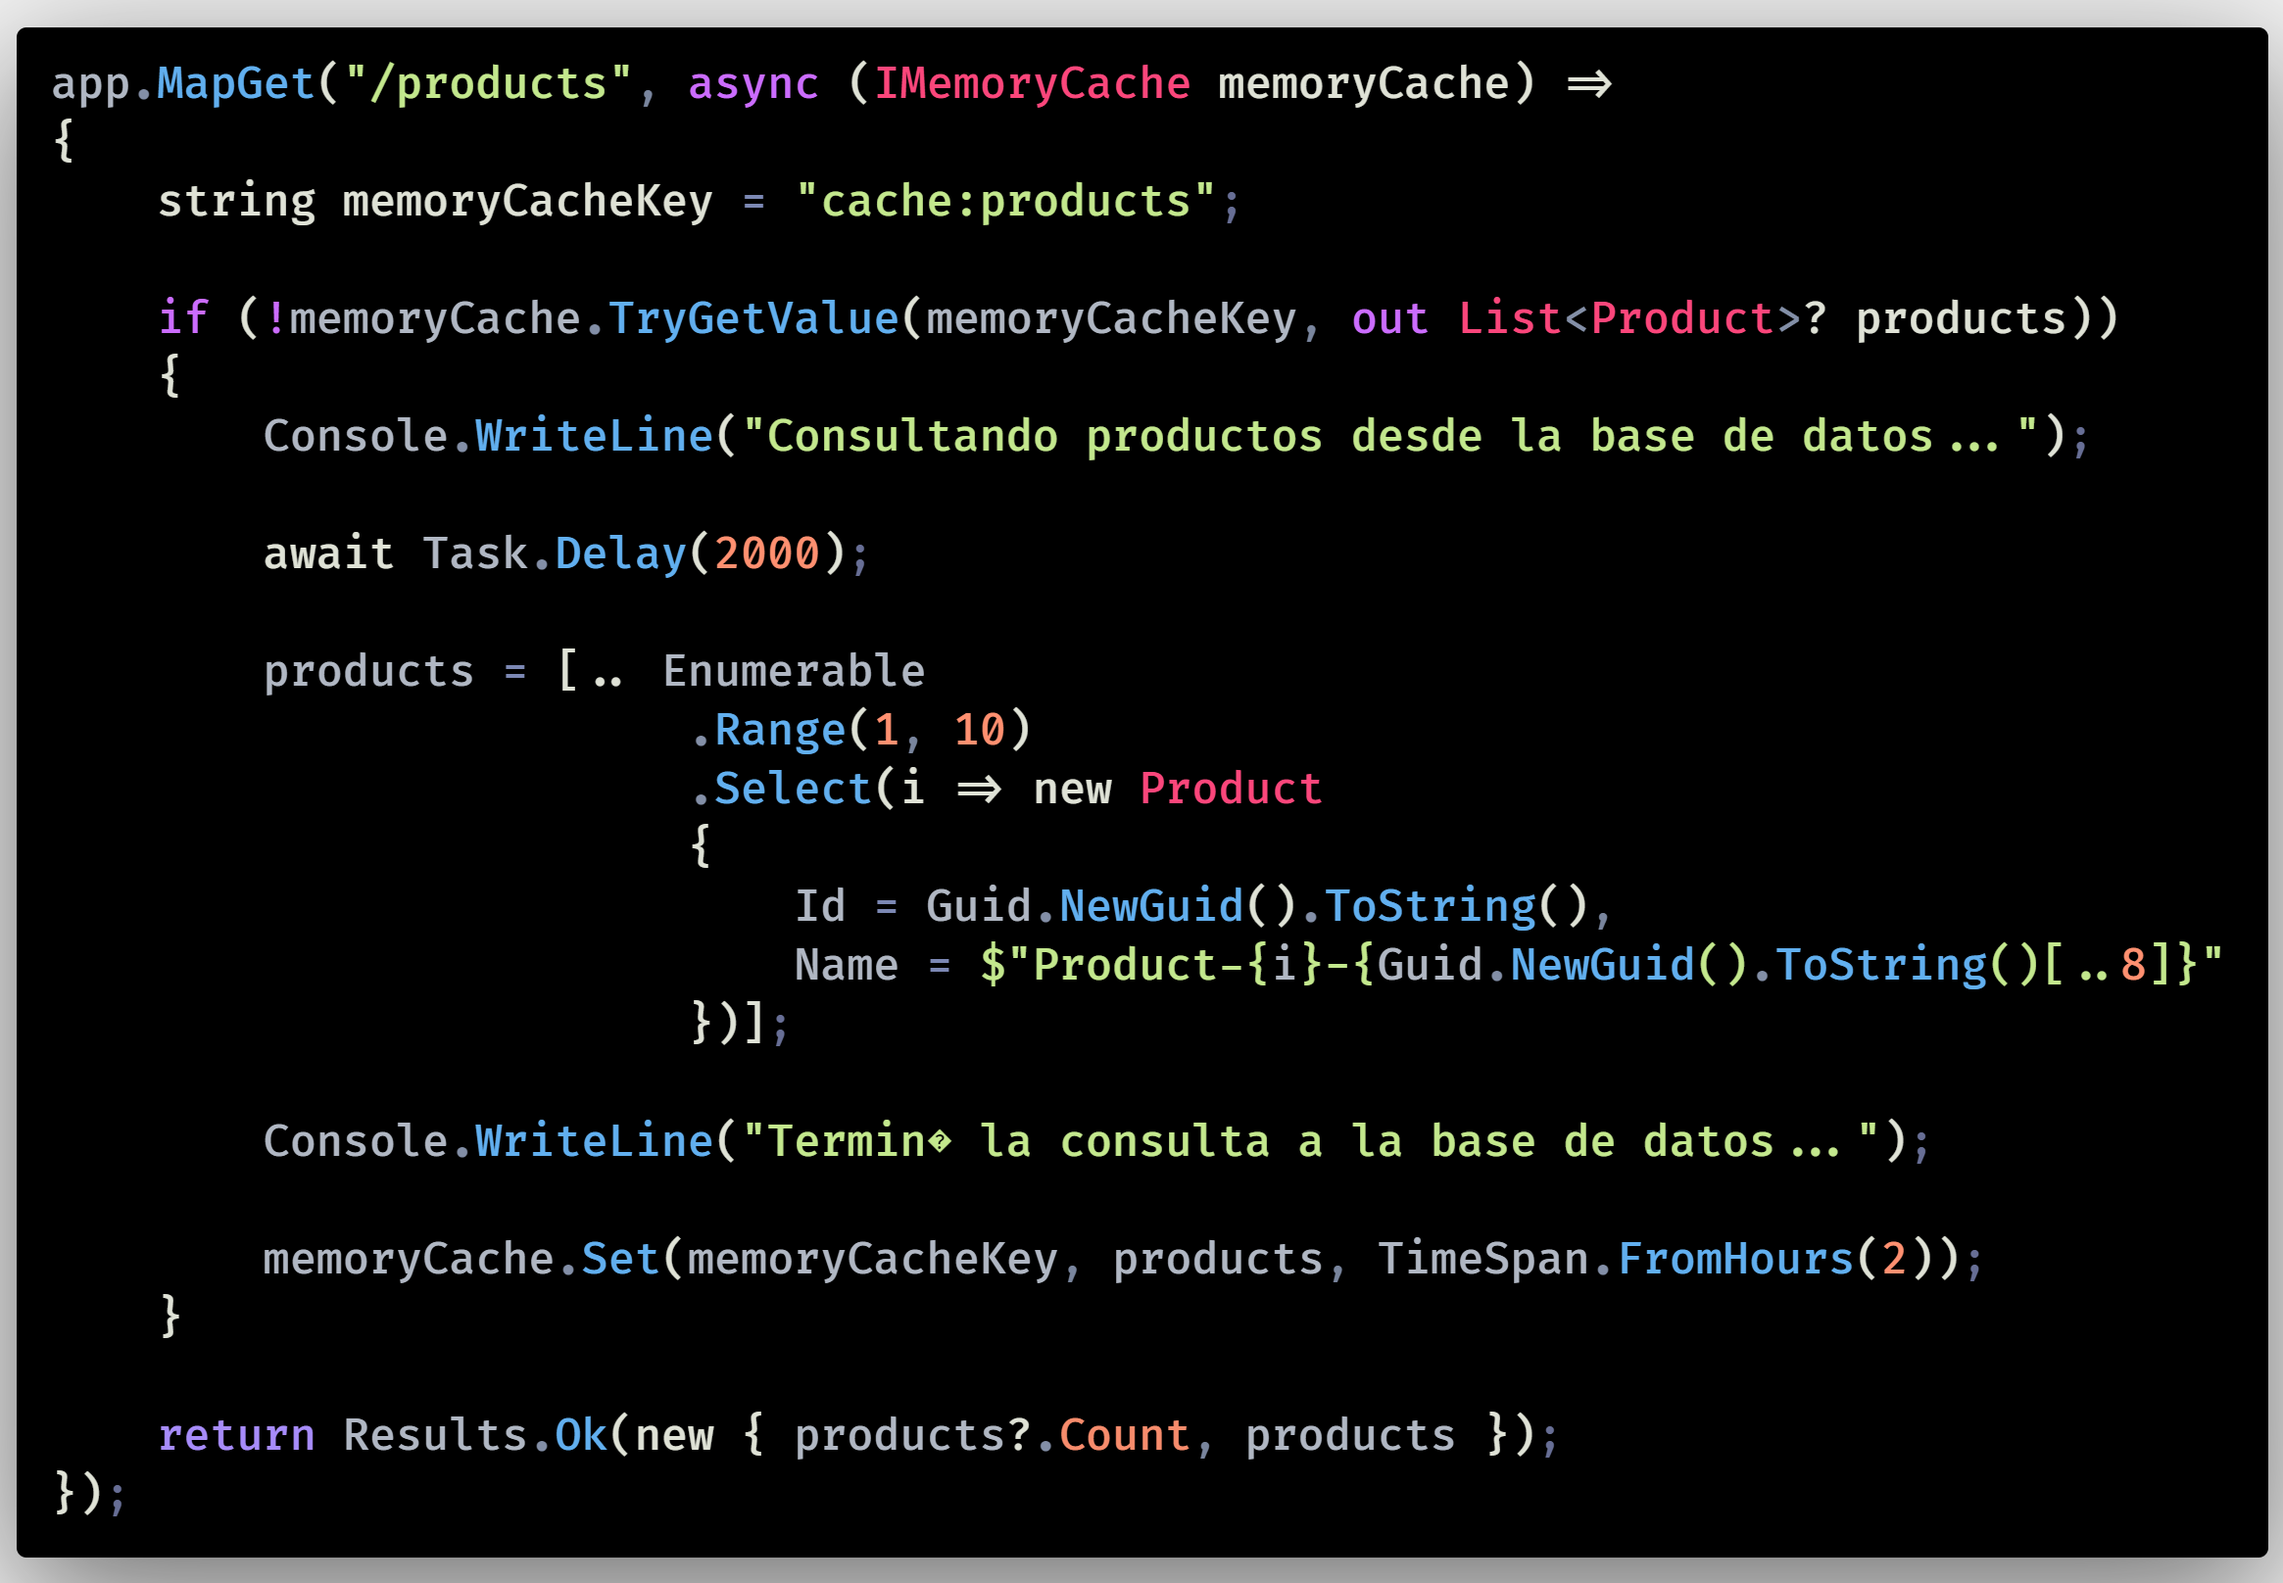
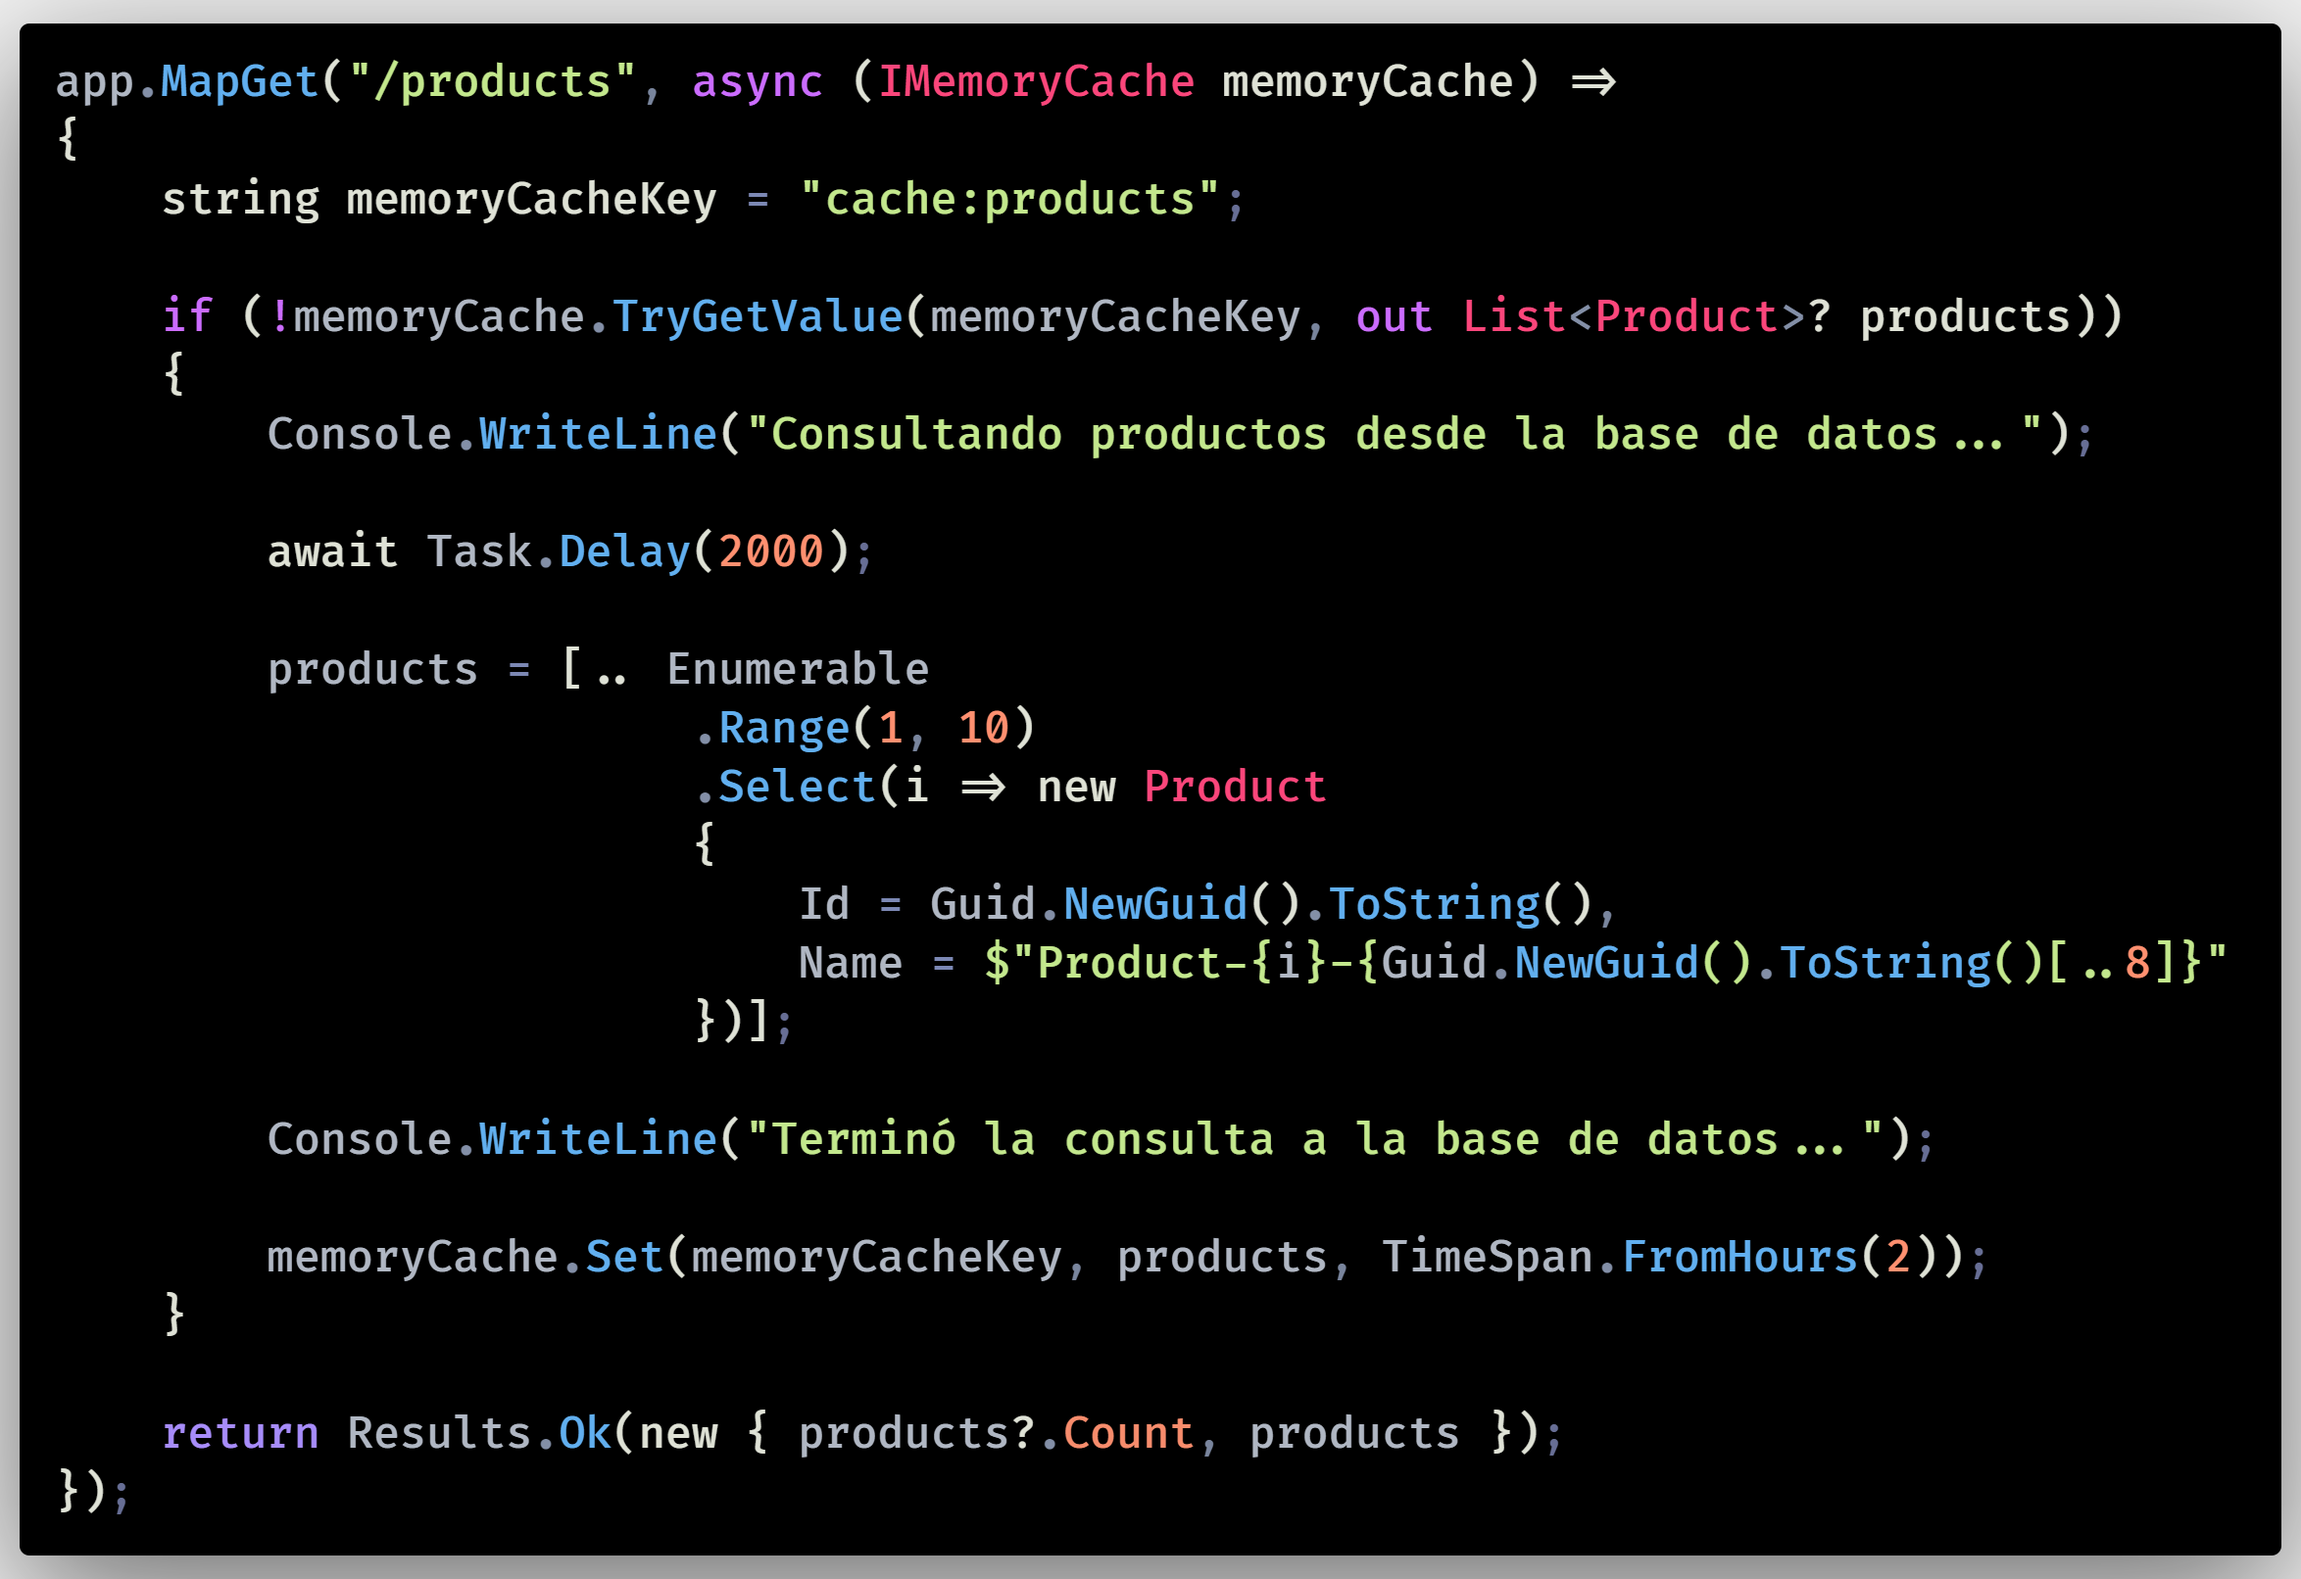
Commit 002: Consoles updated.

diff --git a/Program.cs b/Program.cs
@@ -27,7 +27,7 @@ app.MapGet("/products", async (IMemoryCache memoryCache) =>
                             Name = $"Product-{i}-{Guid.NewGuid().ToString()[..8]}"
                         })];
 
-        Console.WriteLine("Termin� la consulta a la base de datos...");
+        Console.WriteLine("Terminó la consulta a la base de datos...");
 
         memoryCache.Set(memoryCacheKey, products, TimeSpan.FromHours(2));
     }
